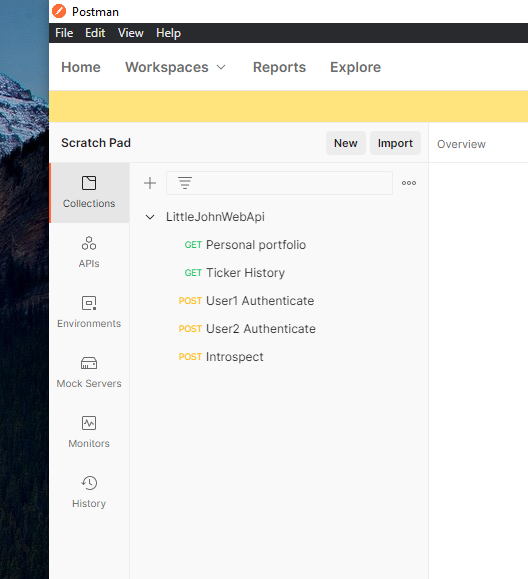
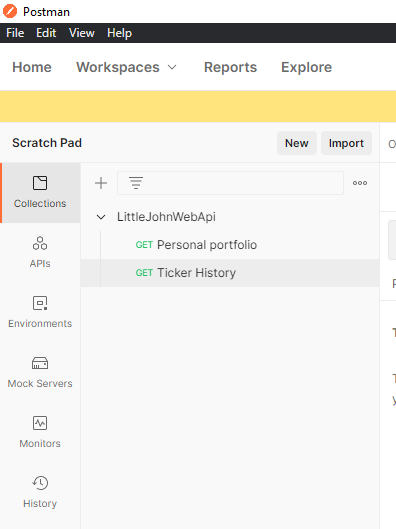
Updated documentation

diff --git a/README.md b/README.md
@@ -3,48 +3,51 @@
 LittleJohn is a sample ASP Net Core 5.0 Web API project which mocks an online broker where users hold a portfolio of stocks.
 
 # Run the application
-LittleJohn is made of two components: 
-* _IdentityServer_, which manages access token generation and validation
-*  _LittleJohnWebAPI_, which manages the broker API.
+LittleJohn is made of _LittleJohnWebAPI.exe_, which is the server side component that manages the broker API.
 
-Both of these components need to be running in order to access the required APIs.
+This component requires to be running in order to access the API.
 
-## First approach: docker-compose
-You can launch both components by using _docker-compose_ (requires [Docker](https://www.docker.com/) installed on your machine). It will take care of building and runnig both components.
+## First approach: docker run
+You can launch both components by using _docker build_ and _docker run_ (requires [Docker](https://www.docker.com/) installed on your machine). It will take care of building and running the server.
 
-First of all clone the repository, then open a terminal in the root of the local repository (where the _docker-compose.yml_ file is located). Then launch:
+First of all clone the repository, then open a terminal in the _LittleJohnWebAPI_ folder (where the Dockerfile_ is located). Then launch:
 
-```docker-compose up```
+```
+docker build -t little-john-web-api .
+docker run -p 50051:50051 little-john-web-api
+```
 
 ## Second approach: contained executables
-If for some reason you don't want to use _docker-compose_, you can launch the application by downloading and unzipping the _LittleJohnWebApi package.zip_ provided in the root of this repository. Then you need to launch the two executables:
-* _IdentityServer/Identity.exe_
-* _LittleJohnWebApi/LittleJohnWebAPI.exe_
+If for some reason you don't want to use Docker commands, you can launch the application by downloading and unzipping the _LittleJohnWebApi package.zip_ provided in the root of this repository. Then you need to launch the executable _LittleJohnWebApi/LittleJohnWebAPI.exe_
 
 You should not need to install anything in order to run the executables, as they have been published in a self-contained manner.
 
 # Test the application
-No matter what approach you chose to launch the project, _IdentityServer_ can be reached at http://localhost:5200 and  _LittleJohnWebAPI_ at http://localhost:5100.
+No matter what approach you chose to launch the project  _LittleJohnWebAPI_ can be reached at http://localhost:5100.
 
 You can test the application using the Postman collection _LittleJohnWebApi.postman_collection.json_ provided in the root of this repository. 
 
 
 Import the collection in Postman. You will see the following requests:
 
-
 ![Postman requests](images/postman-requests.png)
 
-A couple of users, _user1_ and _user2_, have been set up as demo users. First of all you need to retrieve an Access Token using the _User Authenticate_ API:
+## Generate access token
+For testing purposes, you need to generate a JWT access token (for example, on https://jwt.io/).
+The token needs to have the following structure:
 
-![Access token](images/access-token.png)
+![Generate access token](images/generate-access-token.png)
 
-Then you need to copy the access token you just acquired and you can use it to access the _Personal portfolio_ and _Ticker History_ APIs.
+In particular, the token needs to be in JWT format (xxxxx.yyyyy.zzzzz). In addition, it is required to specify in the payload "portfolio" field the list of tickers associated to the user for which you are requesting the token.
+You need to specify a minimum of 1 to a maximum of 10 tickers.
 
-Copy it into the _username_ field in the _Authorization_ tab of a request, while leaving the _password_ filed empty.
+## Invoke the API
+
+You can use the generated access token it to access the _Personal portfolio_ and _Ticker History_ APIs.
+
+Copy it into the _username_ field in the _Authorization_ tab of a request, while leaving the _password_ field empty.
 
 ![Use access token](images/use-access-token.png)
-
-The _Introspect_ API is only useful for testing Access Token validity.
 
 # Automated tests
 Unit tests have been written using the arrange-assert-act pattern. [Nunit](https://nunit.org/), [FakeItEasy](https://fakeiteasy.github.io/) and [FluentAssertions](https://fluentassertions.com/) have been used to write the tests.
